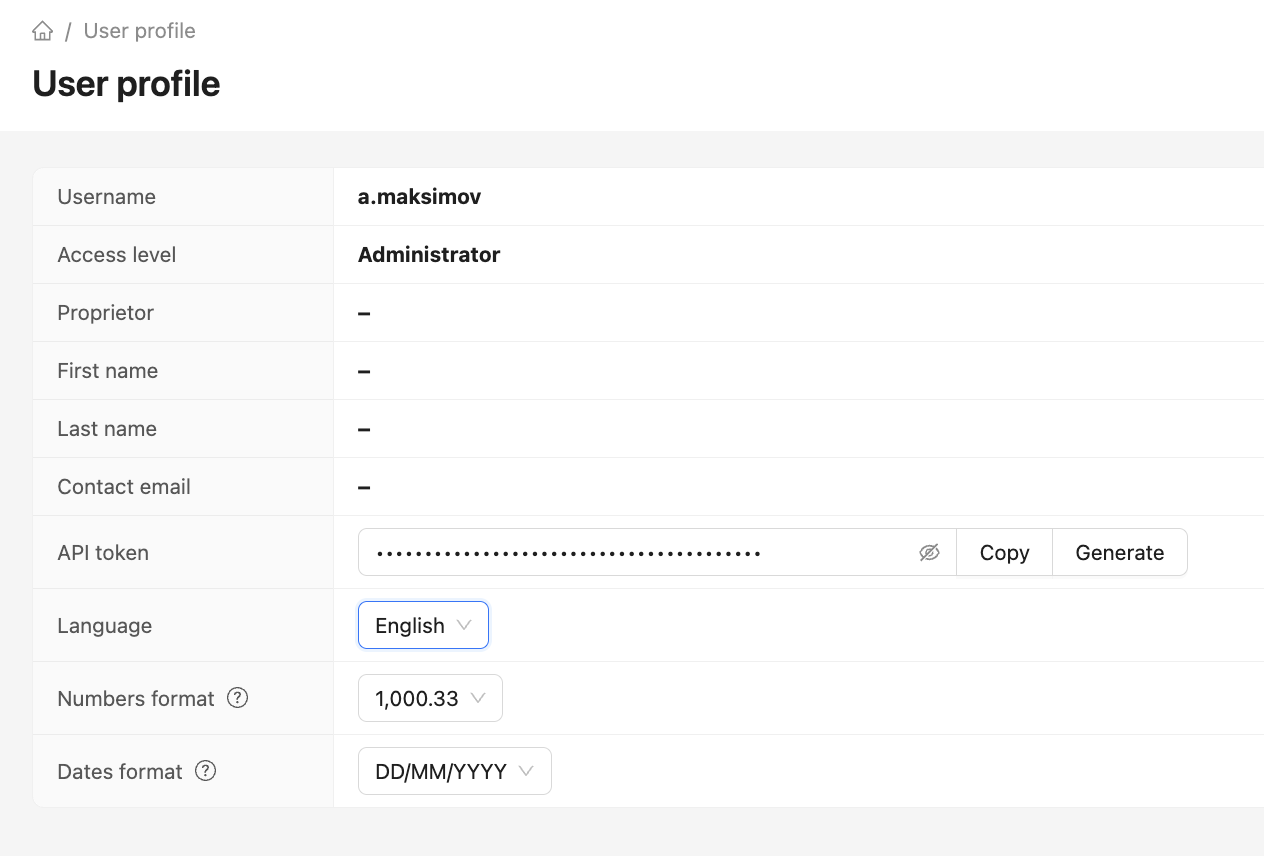
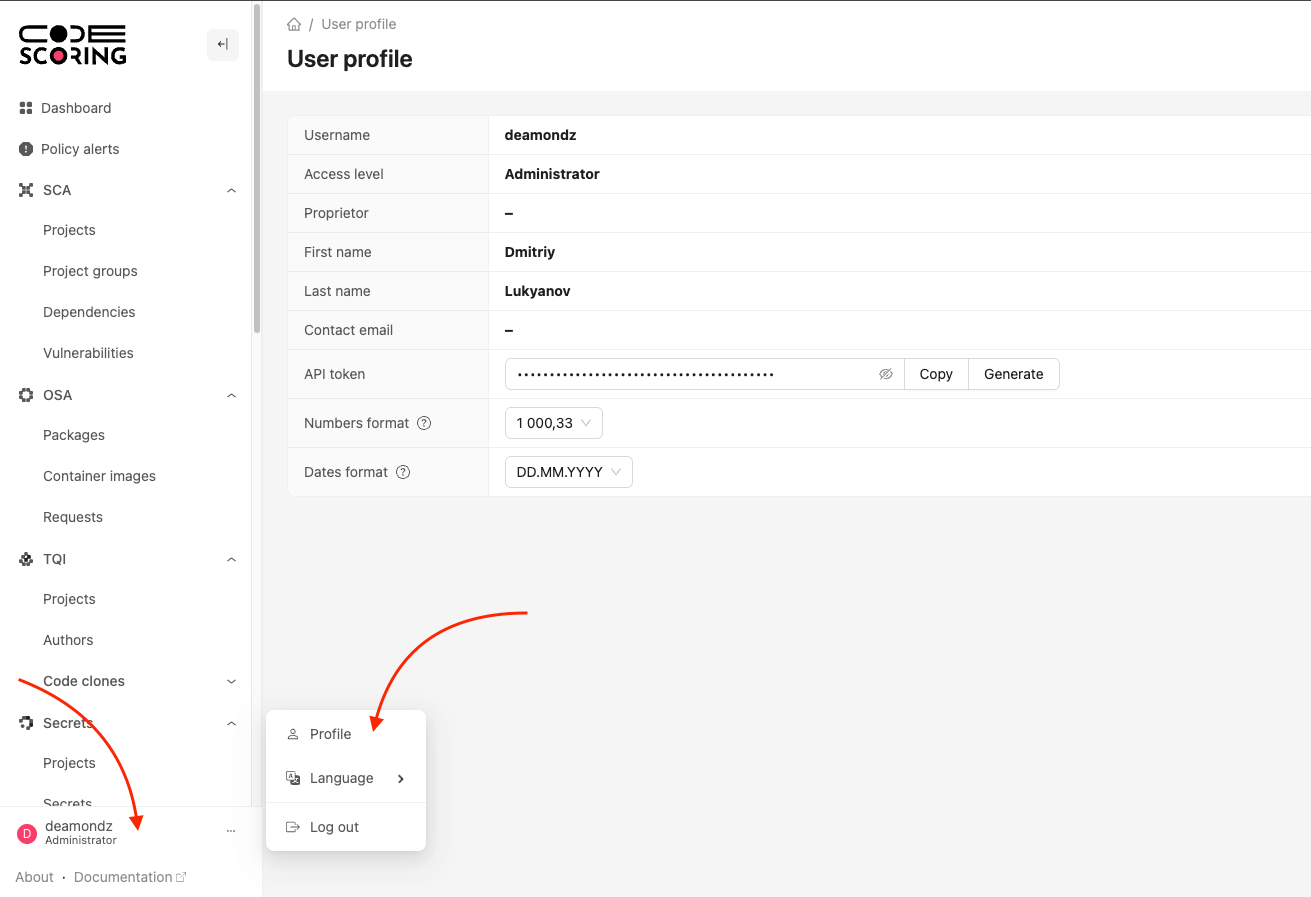
[2025.45.0] CS-55244928: Изменяет описание страниц, содержащих новый UI меню

diff --git a/docs/on-premise/how-to/user-profile.md b/docs/on-premise/how-to/user-profile.md
@@ -7,7 +7,7 @@ hide:
 
 Раздел **Профиль** позволяет пользователю просматривать и изменять персональные данные, а также настроить отображение интерфейса.
 
-Просмотр профиля доступен по нажатию на имя пользователя в правом верхнем углу интерфейса.
+Просмотр профиля доступен по нажатию на имя пользователя в левом нижнем углу интерфейса.
 
 ![User profile](/assets/img/user-profile.png)
 
@@ -20,7 +20,6 @@ hide:
 - **Фамилия** — отображается в интерфейсе и отчетах;
 - **Email** — контактный адрес, отображаемый в списках пользователей;
 - **API токен** — используется для интеграции с внешними инструментами. Можно скопировать или сгенерировать новый (предыдущий станет недействительным);
-- **Язык** — язык интерфейса системы;
 - **Формат чисел** — отображение чисел в системе;
 - **Формат дат** — отображение дат в системе.
 

diff --git a/docs/ide/intellij-sca.md b/docs/ide/intellij-sca.md
@@ -110,7 +110,7 @@ Platform (OpenIDE, GIGA IDE, PyCharm, WebStorm, PhpStorm, RubyMine, GoLand, CLio
 3. Убедитесь, что вы находитесь на странице своего профиля
 4. Найдите поле **"API token"**
 5. Нажмите кнопку **"Generate"** рядом с полем токена API
-   ![Скриншот веб-интерфейса CodeScoring со страницей профиля с полем токена API и кнопкой Generate](/assets/img/ide/intellij/step4-3-generate-token.png)
+   ![Скриншот веб-интерфейса CodeScoring со страницей профиля с полем токена API и кнопкой Generate](/assets/img/ide/step4-3-generate-token.png)
 6. Скопируйте значение сгенерированного токена API
 7. Вернитесь к настройкам IntelliJ-based IDE
 8. Вставьте токен в поле **"API Token"**

diff --git a/docs/ide/vscode-sca.md b/docs/ide/vscode-sca.md
@@ -101,7 +101,7 @@ hide:
 3. Убедитесь, что вы находитесь на странице своего профиля
 4. Найдите поле **"API token"**
 5. Нажмите кнопку **"Generate"** рядом с полем токена API
-   ![Снимок экрана веб-интерфейса CodeScoring со страницей профиля с полем токена API и кнопкой Generate](/assets/img/ide/vscode/step4-3-generate-token.png)
+   ![Снимок экрана веб-интерфейса CodeScoring со страницей профиля с полем токена API и кнопкой Generate](/assets/img/ide/step4-3-generate-token.png)
 6. Скопируйте значение сгенерированного токена API
 7. Вернитесь к настройкам VS Code
 8. Нажмите на ссылку **"Set API Token"** в настройках плагина

diff --git a/docs/on-premise/how-to/user-profile.en.md b/docs/on-premise/how-to/user-profile.en.md
@@ -7,7 +7,7 @@ hide:
 
 The **Profile** section allows users to view and update their personal information and customize the interface appearance.
 
-The profile can be accessed by clicking on the username in the top-right corner of the interface.
+The profile can be accessed by clicking on the username in the bottom-left corner of the interface.
 
 ![User profile](/assets/img/user-profile-en.png)
 
@@ -20,7 +20,6 @@ The page displays the following parameters:
 - **Last name** — shown in the interface and reports;
 - **Email** — contact address displayed in user lists;
 - **API token** — used for integration with external tools. Can be copied or regenerated (the previous one becomes invalid);
-- **Language** — interface language;
 - **Number format** — numeric display format in the system;
 - **Date format** — date display format.
 

diff --git a/docs/ide/vscode-sca.en.md b/docs/ide/vscode-sca.en.md
@@ -98,7 +98,7 @@ After installation, you should see the CodeScoring logo in the VS Code Activity 
 3. Ensure you're on your profile page
 4. Find the **"API token"** field
 5. Click the **"Generate"** button next to the API token field
-   ![Screenshot of the CodeScoring web interface showing the profile page with API token field and Generate button](/assets/img/ide/vscode/step4-3-generate-token.png)
+   ![Screenshot of the CodeScoring web interface showing the profile page with API token field and Generate button](/assets/img/ide/step4-3-generate-token-en.png)
 6. Copy the generated API token value
 7. Return to VS Code settings
 8. Click on the **"Set API Token"** link in the plugin settings

diff --git a/docs/ide/intellij-sca.en.md b/docs/ide/intellij-sca.en.md
@@ -105,7 +105,7 @@ After installation and restart, you should see the CodeScoring tool window.
 3. Ensure you're on your profile page
 4. Locate the **"API token"** field
 5. Click the **"Generate"** button next to the API token field
-   ![Screenshot of CodeScoring web interface showing profile page with API token field and Generate button](/assets/img/ide/intellij/step4-3-generate-token.png)
+   ![Screenshot of CodeScoring web interface showing profile page with API token field and Generate button](/assets/img/ide/step4-3-generate-token-en.png)
 6. Copy the generated API token value
 7. Return to IntelliJ based IDE settings
 8. Paste the token into the **"API Token"** field
